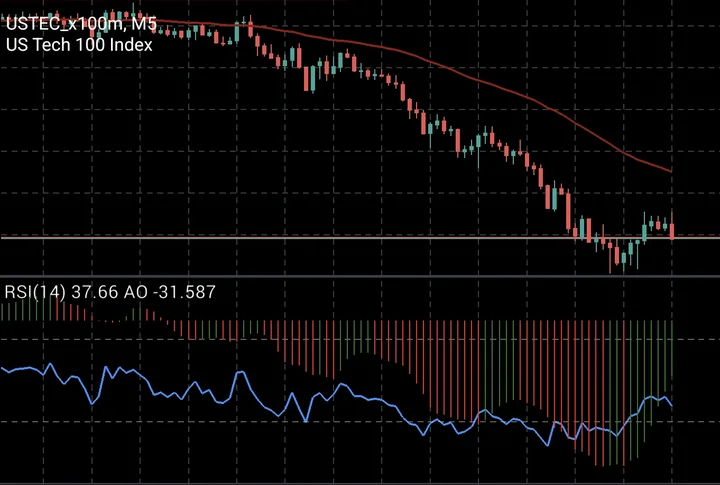
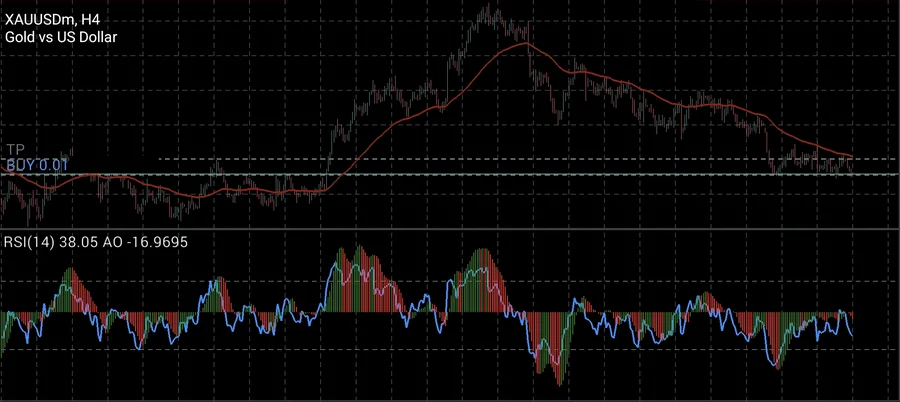
Bots de trading: gráfico de oro con orden del bot (ganancia oculta)
Claude-Session: https://claude.ai/code/session_019G3QgKSGDh2YFLN3ovyJB5

diff --git a/index.html b/index.html
@@ -284,7 +284,7 @@
         <div class="proyecto-cuerpo"><p class="proyecto-tipo">Plataforma · Análisis de datos</p><h3>Trading Supervisor</h3><p>Sistema que registra y analiza cada operación de bots de trading, para comparar estrategias y versiones sin perder historia.</p><ul class="chips"><li>Python</li><li>PostgreSQL</li><li>Docker</li></ul></div>
       </article>
       <article class="proyecto">
-        <div class="proyecto-grafico"><img src="img/proyectos/bots-trading.webp" width="720" height="485" loading="lazy" alt="Gráfico del Nasdaq 100 en MetaTrader 5 con media móvil, RSI y Awesome Oscillator"></div>
+        <div class="proyecto-grafico"><img src="img/proyectos/bots-trading.webp" width="900" height="402" loading="lazy" alt="Bot operando oro (XAUUSD) en MetaTrader 5, con orden de compra y take profit en el gráfico"></div>
         <div class="proyecto-cuerpo"><p class="proyecto-tipo">Algoritmos · Mercados</p><h3>Bots de trading algorítmico</h3><p>Estrategias automatizadas para índices, oro y noticias económicas, con pruebas históricas antes de operar.</p><ul class="chips"><li>MQL5</li><li>MetaTrader 5</li><li>Backtesting</li></ul></div>
       </article>
     </div>
